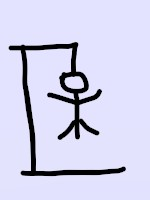
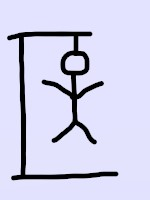
changed hangman img and info message.

Changed region(s): [[0.0267, 0.15, 0.8533, 0.93]]

diff --git a/index.html b/index.html
@@ -20,7 +20,7 @@
   <div class="container">
       <div class="imghangman"><img src="Hangman.jpg" alt="Image_Hangman"></div>
     <div id="item1" class="info"><h3>Press Start</h3></br>
-      <p>Pick a letter.</p><p>Not correct?</p><p>Pick another.</p></div>
+      <p>Pick a letter.</p><p>To guess the word</p></div>
     <div id="item2" class="letters">
       <button onclick="guess('a')" class="btn btn-outline-dark">A</button>
       <button onclick="guess('b')" class="btn btn-outline-dark">B</button>
